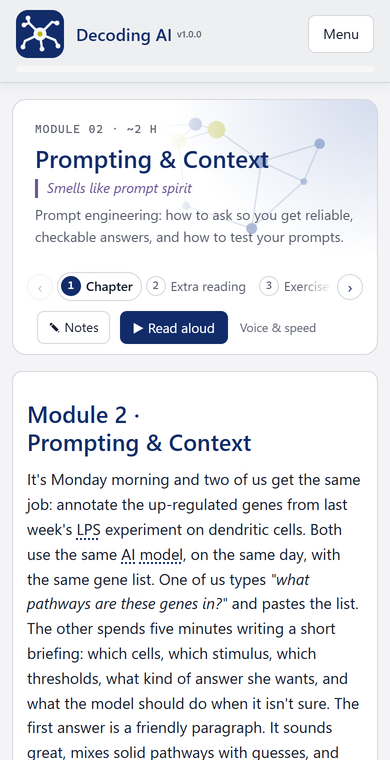
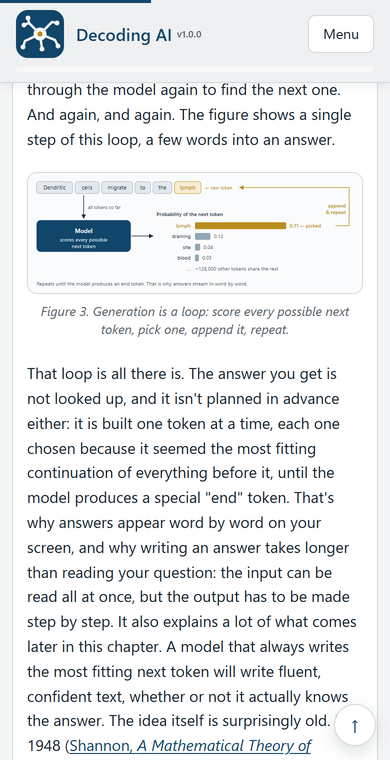
docs(course): showcase diagrams in the mobile gallery

diff --git a/README.md b/README.md
@@ -32,10 +32,10 @@ The dashboard works offline and saves progress in your browser. Each exercise ha
 > **Privacy first.** Treat pre-publication omics data, patient-derived material and unpublished manuscripts as confidential. Read Part 3 of [Module 1](module_01_foundations_and_privacy/README.md) before using cloud models with lab data and Part 3 of [Module 5](module_05_agents_and_subagents/README.md) before deploying autonomous agents.
 
 <p align="center">
-  <img src="docs/img/readme-mobile-home.png" alt="The course welcome page on mobile, with the button to begin Orientation" width="165">
-  <img src="docs/img/readme-mobile-chapter.png" alt="Module 2 on mobile, showing the chapter tab and opening story" width="165">
-  <img src="docs/img/readme-mobile-dictionary.png" alt="The mobile Dictionary search and Attention entry" width="165">
-  <img src="docs/img/readme-mobile-selfcheck.png" alt="Module 1 Self-check on mobile, showing the Knowledge check" width="165">
+  <img src="docs/img/readme-mobile-home.png" alt="The mobile dashboard’s module cards, starting with Orientation and Foundations" width="165">
+  <img src="docs/img/readme-mobile-chapter.png" alt="A diagram in Module 1 showing how a model scores and appends the next token" width="165">
+  <img src="docs/img/readme-mobile-dictionary.png" alt="The Dictionary’s Attention entry, with arcs showing which words the model attends to" width="165">
+  <img src="docs/img/readme-mobile-practice.png" alt="The expanded Plan before you build example in Module 2" width="165">
 </p>
 
 ## Learn more
